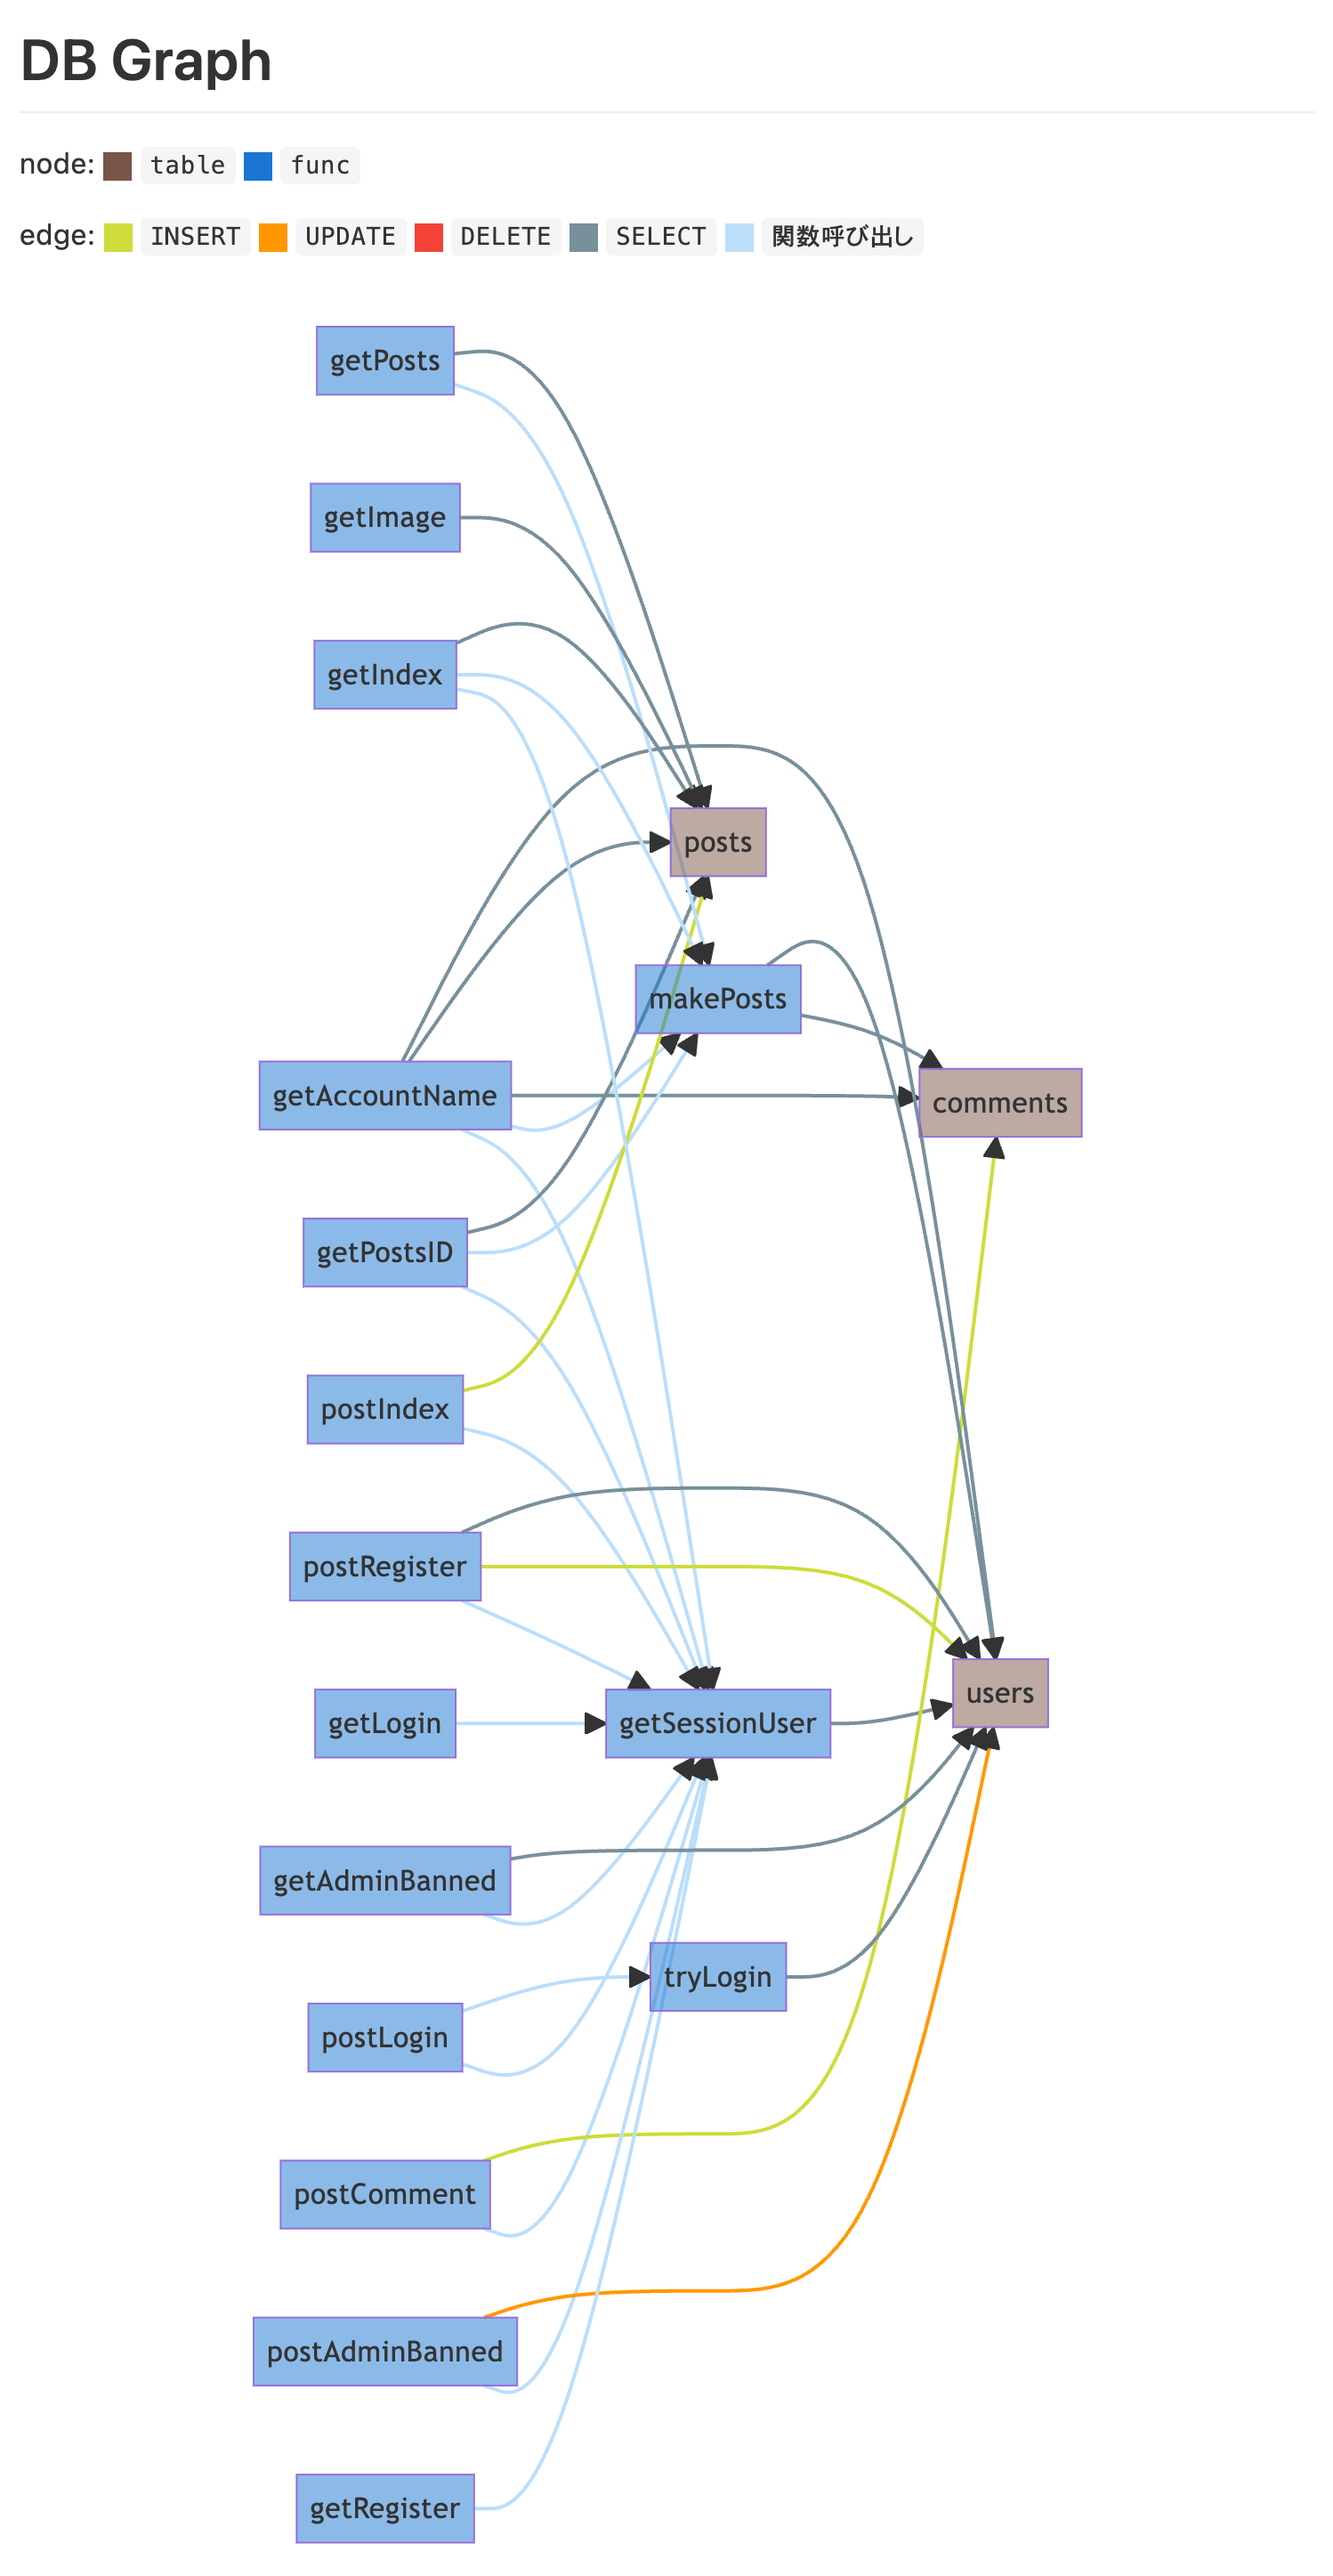
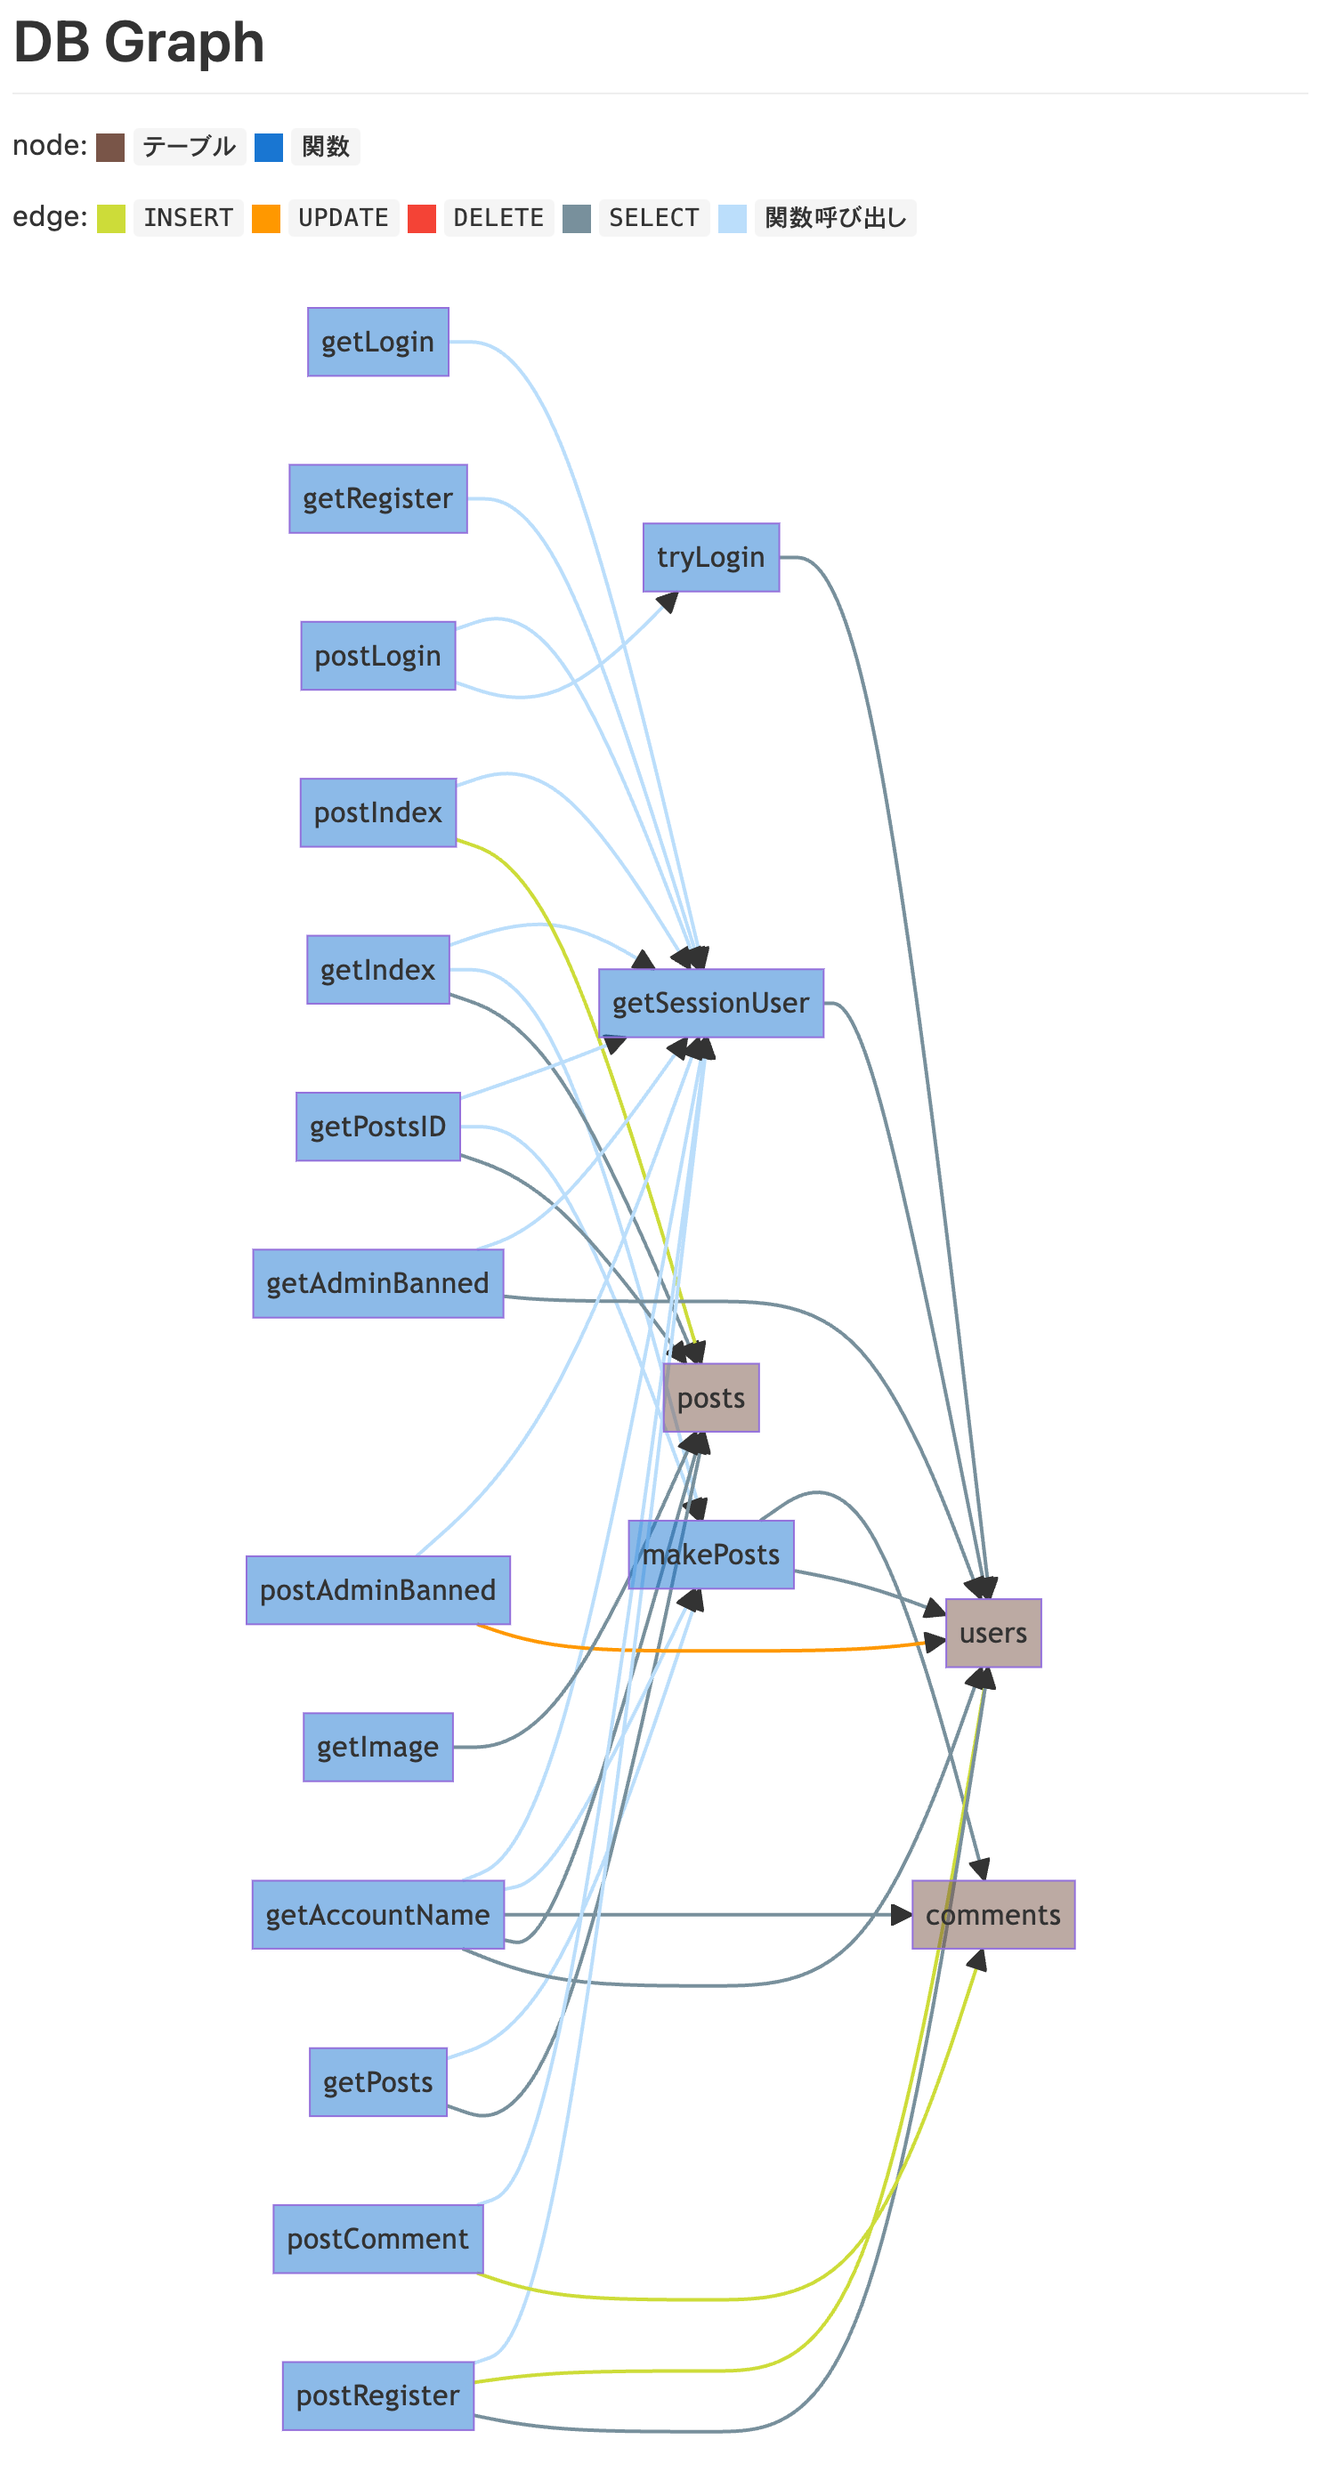
ノードのいろ説明表記修正

diff --git a/internal/isucrud/mermaid.go b/internal/isucrud/mermaid.go
@@ -54,7 +54,7 @@ func writeMermaid(w io.StringWriter, nodes []*node) error {
 
 	for _, nodeType := range nodeTypes {
 		if nodeType.valid {
-			_, err = w.WriteString(fmt.Sprintf("![](https://via.placeholder.com/16/%s/FFFFFF/?text=%%20) `%s` ", nodeType.color, nodeType.name))
+			_, err = w.WriteString(fmt.Sprintf("![](https://via.placeholder.com/16/%s/FFFFFF/?text=%%20) `%s` ", nodeType.color, nodeType.label))
 			if err != nil {
 				return fmt.Errorf("failed to write node description: %w", err)
 			}

diff --git a/docs/sample/private-isu.md b/docs/sample/private-isu.md
@@ -1,46 +1,46 @@
 # DB Graph
-node: ![](https://via.placeholder.com/16/795548/FFFFFF/?text=%20) `table` ![](https://via.placeholder.com/16/1976D2/FFFFFF/?text=%20) `func` 
+node: ![](https://via.placeholder.com/16/795548/FFFFFF/?text=%20) `テーブル` ![](https://via.placeholder.com/16/1976D2/FFFFFF/?text=%20) `関数` 
 
 edge: ![](https://via.placeholder.com/16/CDDC39/FFFFFF/?text=%20) `INSERT` ![](https://via.placeholder.com/16/FF9800/FFFFFF/?text=%20) `UPDATE` ![](https://via.placeholder.com/16/F44336/FFFFFF/?text=%20) `DELETE` ![](https://via.placeholder.com/16/78909C/FFFFFF/?text=%20) `SELECT` ![](https://via.placeholder.com/16/BBDEFB/FFFFFF/?text=%20) `関数呼び出し` 
 ```mermaid
 graph LR
   classDef table fill:#795548,fill-opacity:0.5
   classDef func fill:#1976D2,fill-opacity:0.5
+  func:github.com/catatsuy/private-isu/webapp/golang.getIndex[getIndex]:::func --> func:github.com/catatsuy/private-isu/webapp/golang.getSessionUser[getSessionUser]:::func
+  func:github.com/catatsuy/private-isu/webapp/golang.getIndex[getIndex]:::func --> func:github.com/catatsuy/private-isu/webapp/golang.makePosts[makePosts]:::func
+  func:github.com/catatsuy/private-isu/webapp/golang.getIndex[getIndex]:::func --> table:posts[posts]:::table
+  func:github.com/catatsuy/private-isu/webapp/golang.makePosts[makePosts]:::func --> table:comments[comments]:::table
+  func:github.com/catatsuy/private-isu/webapp/golang.makePosts[makePosts]:::func --> table:users[users]:::table
+  func:github.com/catatsuy/private-isu/webapp/golang.postIndex[postIndex]:::func --> func:github.com/catatsuy/private-isu/webapp/golang.getSessionUser[getSessionUser]:::func
+  func:github.com/catatsuy/private-isu/webapp/golang.postIndex[postIndex]:::func --> table:posts[posts]:::table
+  func:github.com/catatsuy/private-isu/webapp/golang.getLogin[getLogin]:::func --> func:github.com/catatsuy/private-isu/webapp/golang.getSessionUser[getSessionUser]:::func
+  func:github.com/catatsuy/private-isu/webapp/golang.getRegister[getRegister]:::func --> func:github.com/catatsuy/private-isu/webapp/golang.getSessionUser[getSessionUser]:::func
+  func:github.com/catatsuy/private-isu/webapp/golang.getPostsID[getPostsID]:::func --> func:github.com/catatsuy/private-isu/webapp/golang.getSessionUser[getSessionUser]:::func
+  func:github.com/catatsuy/private-isu/webapp/golang.getPostsID[getPostsID]:::func --> func:github.com/catatsuy/private-isu/webapp/golang.makePosts[makePosts]:::func
+  func:github.com/catatsuy/private-isu/webapp/golang.getPostsID[getPostsID]:::func --> table:posts[posts]:::table
+  func:github.com/catatsuy/private-isu/webapp/golang.tryLogin[tryLogin]:::func --> table:users[users]:::table
   func:github.com/catatsuy/private-isu/webapp/golang.getSessionUser[getSessionUser]:::func --> table:users[users]:::table
-  func:github.com/catatsuy/private-isu/webapp/golang.postComment[postComment]:::func --> func:github.com/catatsuy/private-isu/webapp/golang.getSessionUser[getSessionUser]:::func
-  func:github.com/catatsuy/private-isu/webapp/golang.postComment[postComment]:::func --> table:comments[comments]:::table
+  func:github.com/catatsuy/private-isu/webapp/golang.getPosts[getPosts]:::func --> func:github.com/catatsuy/private-isu/webapp/golang.makePosts[makePosts]:::func
+  func:github.com/catatsuy/private-isu/webapp/golang.getPosts[getPosts]:::func --> table:posts[posts]:::table
   func:github.com/catatsuy/private-isu/webapp/golang.getAccountName[getAccountName]:::func --> func:github.com/catatsuy/private-isu/webapp/golang.getSessionUser[getSessionUser]:::func
   func:github.com/catatsuy/private-isu/webapp/golang.getAccountName[getAccountName]:::func --> func:github.com/catatsuy/private-isu/webapp/golang.makePosts[makePosts]:::func
   func:github.com/catatsuy/private-isu/webapp/golang.getAccountName[getAccountName]:::func --> table:comments[comments]:::table
   func:github.com/catatsuy/private-isu/webapp/golang.getAccountName[getAccountName]:::func --> table:posts[posts]:::table
   func:github.com/catatsuy/private-isu/webapp/golang.getAccountName[getAccountName]:::func --> table:users[users]:::table
-  func:github.com/catatsuy/private-isu/webapp/golang.getPostsID[getPostsID]:::func --> func:github.com/catatsuy/private-isu/webapp/golang.getSessionUser[getSessionUser]:::func
-  func:github.com/catatsuy/private-isu/webapp/golang.getPostsID[getPostsID]:::func --> func:github.com/catatsuy/private-isu/webapp/golang.makePosts[makePosts]:::func
-  func:github.com/catatsuy/private-isu/webapp/golang.getPostsID[getPostsID]:::func --> table:posts[posts]:::table
-  func:github.com/catatsuy/private-isu/webapp/golang.postAdminBanned[postAdminBanned]:::func --> func:github.com/catatsuy/private-isu/webapp/golang.getSessionUser[getSessionUser]:::func
-  func:github.com/catatsuy/private-isu/webapp/golang.postAdminBanned[postAdminBanned]:::func --> table:users[users]:::table
-  func:github.com/catatsuy/private-isu/webapp/golang.postLogin[postLogin]:::func --> func:github.com/catatsuy/private-isu/webapp/golang.getSessionUser[getSessionUser]:::func
-  func:github.com/catatsuy/private-isu/webapp/golang.postLogin[postLogin]:::func --> func:github.com/catatsuy/private-isu/webapp/golang.tryLogin[tryLogin]:::func
-  func:github.com/catatsuy/private-isu/webapp/golang.getRegister[getRegister]:::func --> func:github.com/catatsuy/private-isu/webapp/golang.getSessionUser[getSessionUser]:::func
-  func:github.com/catatsuy/private-isu/webapp/golang.postIndex[postIndex]:::func --> func:github.com/catatsuy/private-isu/webapp/golang.getSessionUser[getSessionUser]:::func
-  func:github.com/catatsuy/private-isu/webapp/golang.postIndex[postIndex]:::func --> table:posts[posts]:::table
-  func:github.com/catatsuy/private-isu/webapp/golang.getPosts[getPosts]:::func --> func:github.com/catatsuy/private-isu/webapp/golang.makePosts[makePosts]:::func
-  func:github.com/catatsuy/private-isu/webapp/golang.getPosts[getPosts]:::func --> table:posts[posts]:::table
   func:github.com/catatsuy/private-isu/webapp/golang.getAdminBanned[getAdminBanned]:::func --> func:github.com/catatsuy/private-isu/webapp/golang.getSessionUser[getSessionUser]:::func
   func:github.com/catatsuy/private-isu/webapp/golang.getAdminBanned[getAdminBanned]:::func --> table:users[users]:::table
-  func:github.com/catatsuy/private-isu/webapp/golang.getIndex[getIndex]:::func --> func:github.com/catatsuy/private-isu/webapp/golang.getSessionUser[getSessionUser]:::func
-  func:github.com/catatsuy/private-isu/webapp/golang.getIndex[getIndex]:::func --> func:github.com/catatsuy/private-isu/webapp/golang.makePosts[makePosts]:::func
-  func:github.com/catatsuy/private-isu/webapp/golang.getIndex[getIndex]:::func --> table:posts[posts]:::table
+  func:github.com/catatsuy/private-isu/webapp/golang.postAdminBanned[postAdminBanned]:::func --> func:github.com/catatsuy/private-isu/webapp/golang.getSessionUser[getSessionUser]:::func
+  func:github.com/catatsuy/private-isu/webapp/golang.postAdminBanned[postAdminBanned]:::func --> table:users[users]:::table
+  func:github.com/catatsuy/private-isu/webapp/golang.getImage[getImage]:::func --> table:posts[posts]:::table
   func:github.com/catatsuy/private-isu/webapp/golang.postRegister[postRegister]:::func --> func:github.com/catatsuy/private-isu/webapp/golang.getSessionUser[getSessionUser]:::func
   func:github.com/catatsuy/private-isu/webapp/golang.postRegister[postRegister]:::func --> table:users[users]:::table
   func:github.com/catatsuy/private-isu/webapp/golang.postRegister[postRegister]:::func --> table:users[users]:::table
-  func:github.com/catatsuy/private-isu/webapp/golang.getImage[getImage]:::func --> table:posts[posts]:::table
-  func:github.com/catatsuy/private-isu/webapp/golang.tryLogin[tryLogin]:::func --> table:users[users]:::table
-  func:github.com/catatsuy/private-isu/webapp/golang.getLogin[getLogin]:::func --> func:github.com/catatsuy/private-isu/webapp/golang.getSessionUser[getSessionUser]:::func
-  func:github.com/catatsuy/private-isu/webapp/golang.makePosts[makePosts]:::func --> table:comments[comments]:::table
-  func:github.com/catatsuy/private-isu/webapp/golang.makePosts[makePosts]:::func --> table:users[users]:::table
-  linkStyle 2,17,26 stroke:#CDDC39,stroke-width:2px
-  linkStyle 12 stroke:#FF9800,stroke-width:2px
-  linkStyle 0,5,6,7,10,19,21,24,27,28,29,31,32 stroke:#78909C,stroke-width:2px
-  linkStyle 1,3,4,8,9,11,13,14,15,16,18,20,22,23,25,30 stroke:#BBDEFB,stroke-width:2px
+  func:github.com/catatsuy/private-isu/webapp/golang.postLogin[postLogin]:::func --> func:github.com/catatsuy/private-isu/webapp/golang.getSessionUser[getSessionUser]:::func
+  func:github.com/catatsuy/private-isu/webapp/golang.postLogin[postLogin]:::func --> func:github.com/catatsuy/private-isu/webapp/golang.tryLogin[tryLogin]:::func
+  func:github.com/catatsuy/private-isu/webapp/golang.postComment[postComment]:::func --> func:github.com/catatsuy/private-isu/webapp/golang.getSessionUser[getSessionUser]:::func
+  func:github.com/catatsuy/private-isu/webapp/golang.postComment[postComment]:::func --> table:comments[comments]:::table
+  linkStyle 0,1,5,7,8,9,10,14,16,17,21,23,26,29,30,31 stroke:#BBDEFB,stroke-width:2px
+  linkStyle 2,3,4,11,12,13,15,18,19,20,22,25,28 stroke:#78909C,stroke-width:2px
+  linkStyle 6,27,32 stroke:#CDDC39,stroke-width:2px
+  linkStyle 24 stroke:#FF9800,stroke-width:2px
 ```
